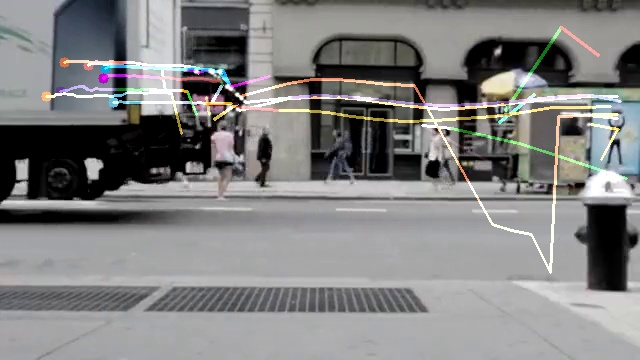
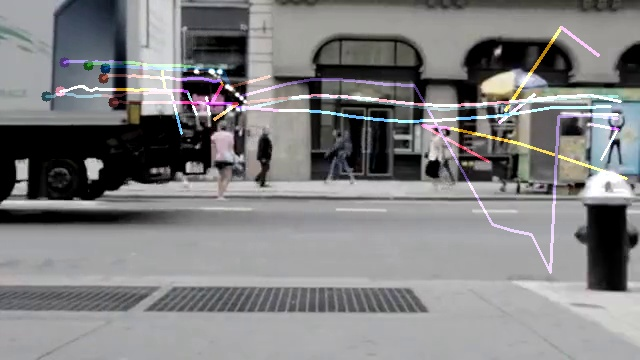
dens flow code

diff --git a/motion_extraction_dense.py b/motion_extraction_dense.py
@@ -1,0 +1,52 @@
+import cv2
+import numpy as np
+def dense_flow(video_path):
+#grab video from source
+    cap = cv2.VideoCapture(video_path)
+
+    #grab first frame
+    ret, frame1 = cap.read()
+    
+    prvs = cv2.cvtColor(frame1,cv2.COLOR_BGR2GRAY)
+    hsv = np.zeros_like(frame1)
+    hsv[...,1] = 255
+
+
+    while True:
+        #get next frame
+        ret, frame2 = cap.read()
+        if not ret:
+
+            break
+        else:
+            next = cv2.cvtColor(frame2,cv2.COLOR_BGR2GRAY)
+
+            flow = cv2.calcOpticalFlowFarneback(prvs,next, None, 0.5, 3, 15, 3, 5, 1.2, 0)
+            #visualise
+            mag, ang = cv2.cartToPolar(flow[...,0], flow[...,1])
+            hsv[...,0] = ang*180/np.pi/2
+            hsv[...,2] = cv2.normalize(mag,None,0,255,cv2.NORM_MINMAX)
+            rgb = cv2.cvtColor(hsv,cv2.COLOR_HSV2BGR)
+
+            cv2.imshow('frame2',rgb)
+            k = cv2.waitKey(30) & 0xff
+            if k == 27:
+                break
+            # Frame are read by intervals of 10 millisecond. The programs breaks out of the while loop when the user presses the ‘s’ key
+            elif k == ord('s'):
+                cv2.imwrite('opticalfb.png',frame2)
+                cv2.imwrite('opticalhsv.png',rgb)
+        # Now update the previous frame and previous points
+            prvs = next
+        cv2.imwrite('opticalfb.png',frame2)
+        cv2.imwrite('opticalhsv.png',rgb)
+    cap.release()
+    cv2.destroyAllWindows()
+
+def main():
+    video_path = ('people.mp4')
+    dense_flow(video_path)
+
+
+if __name__ == "__main__":
+    main()

diff --git a/motion_extraction_sparse.py b/motion_extraction_sparse.py
@@ -1,3 +1,7 @@
+
+
+
+
 from optparse import make_option
 import cv2
 import numpy as np
@@ -42,7 +46,7 @@ def lucas_kanade_method(video_path):
         if not ret:
             break
         frame_gray = cv2.cvtColor(frame, cv2.COLOR_BGR2GRAY)
-        # calculate optical flow
+        # forward-backwoard error detection
         p1, st, err = cv2.calcOpticalFlowPyrLK(
             old_gray, frame_gray, p0, None, **lk_params
         )
@@ -73,7 +77,8 @@ def lucas_kanade_method(video_path):
                 mask = cv2.line(mask, (int(a),int (b)), (int(c),int(d)), color[i].tolist(), 2)
                 frame = cv2.circle(frame, (int(a),int(b) ), 5, color[i].tolist(), -1)
             img = cv2.add(frame, mask)
-            cv2.imwrite("frame.jpg", img)
+            cv2.imshow('output',img)
+            
             k = cv2.waitKey(25) & 0xFF
             if k == 27:
                 break
@@ -83,7 +88,8 @@ def lucas_kanade_method(video_path):
             old_gray = frame_gray.copy()
             p0 = good_new.reshape(-1, 1, 2)
 
-        idx +=1    
+        idx +=1
+    cv2.imwrite("frame.jpg", img)    
     return optical_flow
     #save_optical_flow(flow)
     
